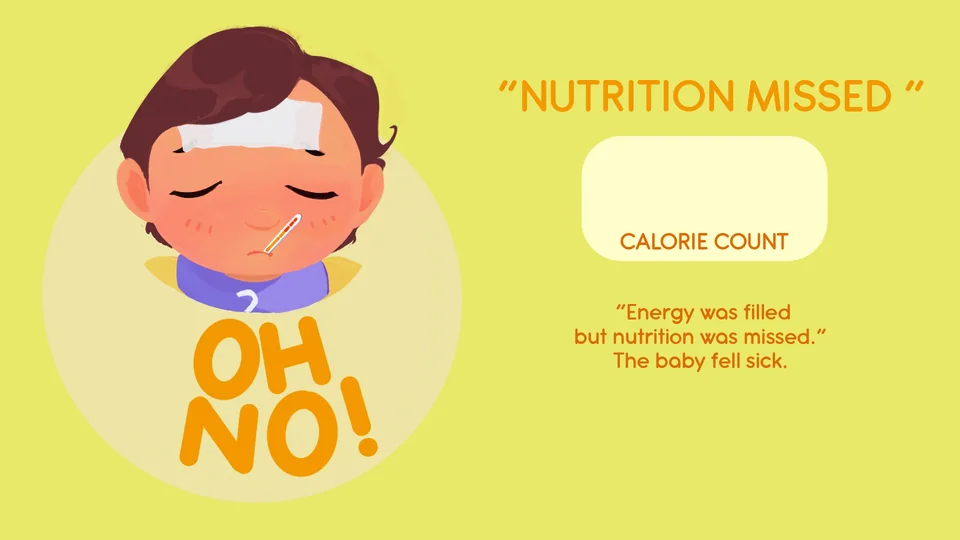
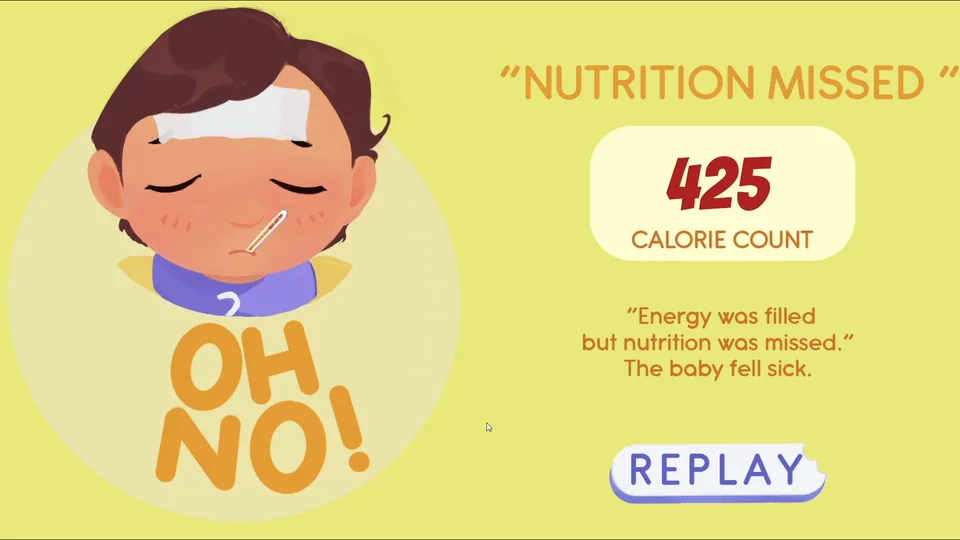
Tiffin Wiffin: animated coaxing tricks and ending screens with calorie counts

diff --git a/tiffin-wiffin.html b/tiffin-wiffin.html
@@ -129,24 +129,26 @@
       <div class="systems">
         <article class="system gif-right">
           <div class="system-text">
-            <h3>Feeding the baby</h3>
-            <p>The cursor changes with the job: a hand to pick foods, then a fork or a spoon with the food sprite attached. The sprite swaps when the food is shaped or coloured, so the player always sees what they are about to offer.</p>
+            <h3>Aeroplane</h3>
+            <p>Trace a dotted flight path to &ldquo;fly&rdquo; the spoon in. Stray from the line and the trick fails. Every food accepts it.</p>
           </div>
-          <figure class="media-shot od-shot"><img src="assets/tiffin-wiffin/gameplay.webp" alt="The toddler at the table with a bowl of rice, the food tray and the spoon and fork" width="1280" height="720" loading="lazy"></figure>
+          <figure class="media-shot od-shot"><img src="assets/tiffin-wiffin/anim-aeroplane.webp" alt="The player traces a dotted flight path and the spoon flies into the baby's mouth" width="960" height="540" loading="lazy"></figure>
         </article>
-      </div>
-      <div class="ux-grid">
-        <article class="ux-card">
-          <h3>Aeroplane</h3>
-          <p>Trace a dotted flight path to &ldquo;fly&rdquo; the spoon in. Stray from the line and the trick fails. Every food accepts it.</p>
+
+        <article class="system gif-left">
+          <div class="system-text">
+            <h3>Food shaping</h3>
+            <p>Turn pumpkin or rice into a star shape, because fun shapes make food more appealing.</p>
+          </div>
+          <figure class="media-shot od-shot"><img src="assets/tiffin-wiffin/anim-shaping.webp" alt="The star cutter turns a spoonful of pumpkin into a star, and the refusing baby eats it" width="960" height="540" loading="lazy"></figure>
         </article>
-        <article class="ux-card">
-          <h3>Food shaping</h3>
-          <p>Turn pumpkin or rice into a star shape, because fun shapes make food more appealing.</p>
-        </article>
-        <article class="ux-card ux-wide">
-          <h3>Colouring</h3>
-          <p>Add beet juice to make rice or cereal pink, because colourful food catches a toddler's eye.</p>
+
+        <article class="system gif-right">
+          <div class="system-text">
+            <h3>Colouring</h3>
+            <p>Add beet juice to make rice or cereal pink, because colourful food catches a toddler's eye. Each food accepts only some tricks: Cerelac can't be shaped, so the player has to colour it instead.</p>
+          </div>
+          <figure class="media-shot od-shot"><img src="assets/tiffin-wiffin/anim-colouring.webp" alt="Food shaping is refused for Cerelac, so the player adds beet juice to colour it pink" width="960" height="540" loading="lazy"></figure>
         </article>
       </div>
     </section>
@@ -197,15 +199,15 @@
       <p class="section-lead">The meal is judged when the timer ends. Two of the three endings are failures, and each one teaches something different about feeding a baby.</p>
       <div class="tw-endings">
         <figure>
-          <img src="assets/tiffin-wiffin/end-perfect.webp" alt="The Perfect ending: the toddler laughing with a big YAY" width="960" height="540" loading="lazy">
+          <img src="assets/tiffin-wiffin/end-perfect.webp?v=2" alt="The Perfect ending: the toddler laughing with a big YAY, at 515 calories" width="960" height="540" loading="lazy">
           <figcaption><strong>Perfect</strong>More than 300 kcal, with less than half of it from Cerelac. &ldquo;Calories and nutrition were met.&rdquo;</figcaption>
         </figure>
         <figure>
-          <img src="assets/tiffin-wiffin/end-nutrition.webp" alt="The Nutrition missed ending: the toddler sick, with a thermometer and an OH NO" width="960" height="540" loading="lazy">
+          <img src="assets/tiffin-wiffin/end-nutrition.webp?v=2" alt="The Nutrition missed ending: the toddler sick with a thermometer, at 425 calories" width="960" height="540" loading="lazy">
           <figcaption><strong>Nutrition missed</strong>More than 300 kcal, but half or more from Cerelac. &ldquo;Energy was filled but nutrition was missed. The baby fell sick.&rdquo;</figcaption>
         </figure>
         <figure>
-          <img src="assets/tiffin-wiffin/end-timeout.webp" alt="The Time out ending: the toddler sick, with a thermometer and an OH NO" width="960" height="540" loading="lazy">
+          <img src="assets/tiffin-wiffin/end-timeout.webp?v=2" alt="The Time out ending: the toddler sick with a thermometer, at 300 calories" width="960" height="540" loading="lazy">
           <figcaption><strong>Time out</strong>300 kcal or less when the timer ends. &ldquo;Feeding time slipped away. Babies need to be fed on time.&rdquo;</figcaption>
         </figure>
       </div>
